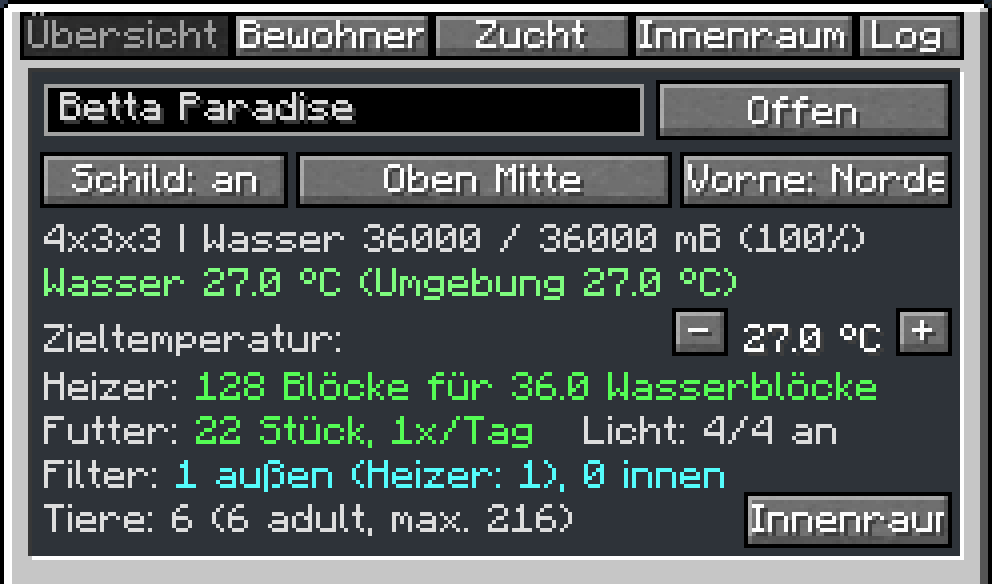
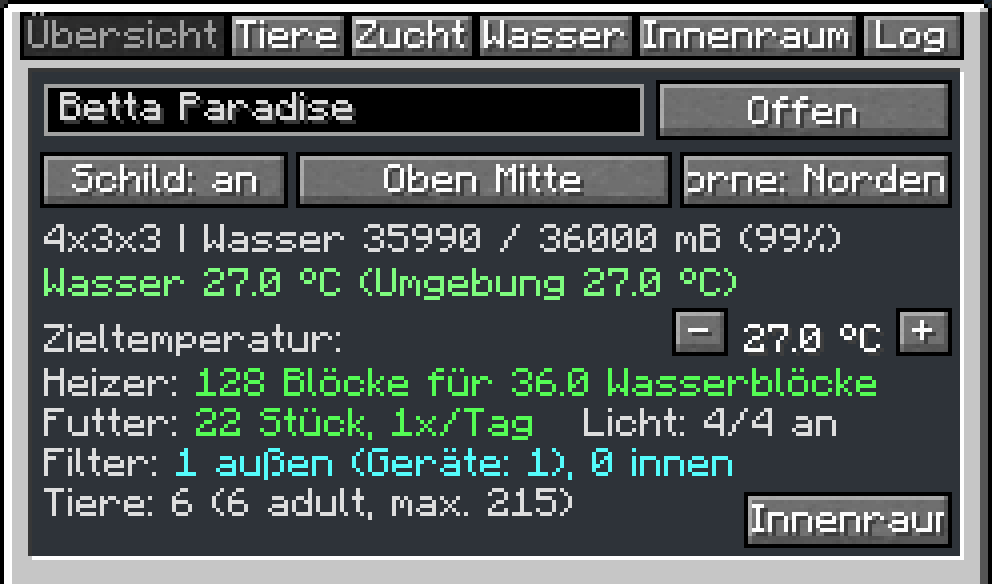
Handbook images for the water care scene, the live food breeders and the water tab, tank menu images with six tabs in English and German

diff --git a/tools/assetgen/guide_images.py b/tools/assetgen/guide_images.py
@@ -6,7 +6,8 @@ them into ``assets/bettacraft/guides/bettacraft/guide/images/`` (German menus in
 images at a quarter of their pixel size and shrinks them to the page width, so the menu crops at GUI scale 4 show up
 exactly at GUI size.
 
-The interior and hologram images are kept as they are (from the M4/M5 screenshots).
+The interior and hologram images are kept as they are (from the M4/M5 screenshots). M9 adds the water care scene, the
+live food breeders and the water tab from the ``bettacraft_m9_*`` screenshots of the same run.
 """
 from __future__ import annotations
 
@@ -33,6 +34,9 @@ WORLD = {
 # GUI scale 4: the 248x230 tank panel sits at (144, 20); tabs and the content area are its upper 146 rows
 MENU_BOX = (144, 20, 144 + 248 * 4, 20 + 146 * 4)
 MENUS = {"menu_overview": "guide_menu_overview", "menu_inhabitants": "guide_menu_inhabitants", "menu_breeding": "guide_menu_breeding"}
+# M9 scene (DevClientSmokeM9): world shots without HUD and the water tab (English only; German pages fall back to it)
+M9_WORLD = {"water_care": ("bettacraft_m9_scene", (0, 240, 1140, 620)), "live_food": ("bettacraft_m9_breeders", (0, 100, 1060, 520))}
+M9_MENUS = {"menu_water": "bettacraft_m9_menu_water"}
 
 
 def save(im: Image.Image, path: Path) -> None:
@@ -62,6 +66,18 @@ def main() -> int:
                 print("missing", src)
                 continue
             save(Image.open(src).convert("RGB").crop(MENU_BOX), out / f"{name}.png")
+    for name, (shot, box) in M9_WORLD.items():
+        src = SHOTS / f"{shot}.png"
+        if src.exists():
+            save(Image.open(src).convert("RGB").crop(box), out_en / f"{name}.png")
+        else:
+            print("missing", src)
+    for name, shot in M9_MENUS.items():
+        src = SHOTS / f"{shot}.png"
+        if src.exists():
+            save(Image.open(src).convert("RGB").crop(MENU_BOX), out_en / f"{name}.png")
+        else:
+            print("missing", src)
     for kept in ("interior", "hologram"):
         p = out_en / f"{kept}.png"
         if p.exists() and Image.open(p).mode != "P":

diff --git a/src/main/resources/assets/bettacraft/guides/bettacraft/guide/_de_de/aquarium/menu.md b/src/main/resources/assets/bettacraft/guides/bettacraft/guide/_de_de/aquarium/menu.md
@@ -39,6 +39,8 @@ Siehe [Zucht](../breeding.md).
 
 ## Wasser
 
+![Der Wasser-Tab](../images/menu_water.png)
+
 Wasservolumen, die [Wasserqualität](water_quality.md) mit einem Balken (die rote Marke zeigt, ab wann die Bettas
 leiden), wie schnell sie sinkt und warum (Tiere pro Wasserblock, wie viel die Filter entfernen), das letzte Frischwasser,
 Verdunstung und offene obere Blöcke, Heizer und Kühler und der gespeicherte [Strom](../equipment/power.md), wenn der

diff --git a/src/main/resources/assets/bettacraft/guides/bettacraft/guide/aquarium/menu.md b/src/main/resources/assets/bettacraft/guides/bettacraft/guide/aquarium/menu.md
@@ -39,6 +39,8 @@ See [Breeding](../breeding.md).
 
 ## Water
 
+![The water tab](../images/menu_water.png)
+
 Water volume, the [water quality](water_quality.md) with a bar (the red mark is where the bettas start to suffer), how
 fast it drops and why (animals per water block, how much the filters remove), the last fresh water, evaporation and
 open top blocks, heaters and coolers, and the stored [power](../equipment/power.md) when the server needs it.

diff --git a/src/main/resources/assets/bettacraft/guides/bettacraft/guide/_de_de/food/live_food.md b/src/main/resources/assets/bettacraft/guides/bettacraft/guide/_de_de/food/live_food.md
@@ -11,6 +11,8 @@ item_ids:
 
 # Lebendfutter züchten
 
+![Ein Artemia-Zuchtbecken mit Nauplien und ein Larvenbottich mit Mückenlarven](../images/live_food.png)
+
 Statt jede Portion aus einer Flasche auszubrüten, kannst du Lebendfutter in zwei Blöcken züchten. Beide funktionieren mit
 Trichtern und Leitungen: Zutaten kommen von oben oder von der Seite hinein, ein Trichter darunter holt das Futter heraus,
 ein Komparator zeigt, wie voll es ist.

diff --git a/src/main/resources/assets/bettacraft/guides/bettacraft/guide/food/live_food.md b/src/main/resources/assets/bettacraft/guides/bettacraft/guide/food/live_food.md
@@ -11,6 +11,8 @@ item_ids:
 
 # Breeding live food
 
+![An artemia hatchery with nauplii and a larva tub with mosquito larvae](../images/live_food.png)
+
 Instead of hatching every portion from a bottle, you can breed live food in two blocks. Both work with hoppers and
 pipes: ingredients go in from the top or the sides, a hopper below takes the food out, a comparator reads how full it is.
 

diff --git a/src/main/resources/assets/bettacraft/guides/bettacraft/guide/_de_de/aquarium/water_quality.md b/src/main/resources/assets/bettacraft/guides/bettacraft/guide/_de_de/aquarium/water_quality.md
@@ -10,6 +10,8 @@ item_ids:
 
 # Wasserqualität und Verdunstung
 
+![Ein Aquarium mit Abdeckungen, Licht und Futterautomat obenauf, Kühler und Heizer im Filter; links Larvenbottich und Artemia-Zuchtbecken](../images/water_care.png)
+
 ## Wasserqualität
 
 Jedes Aquarium hat eine **Wasserqualität** von 100 % (sauber) bis 0 %. Der Tab **Wasser** im Aquarium-Menü zeigt sie

diff --git a/src/main/resources/assets/bettacraft/guides/bettacraft/guide/aquarium/water_quality.md b/src/main/resources/assets/bettacraft/guides/bettacraft/guide/aquarium/water_quality.md
@@ -10,6 +10,8 @@ item_ids:
 
 # Water quality and evaporation
 
+![An aquarium with lids, light and feeder on top, a cooler and a heater in the filter; left a larva tub and an artemia hatchery](../images/water_care.png)
+
 ## Water quality
 
 Every aquarium has a **water quality** from 100 % (clean) down to 0 %. The **Water** tab of the tank menu shows it
